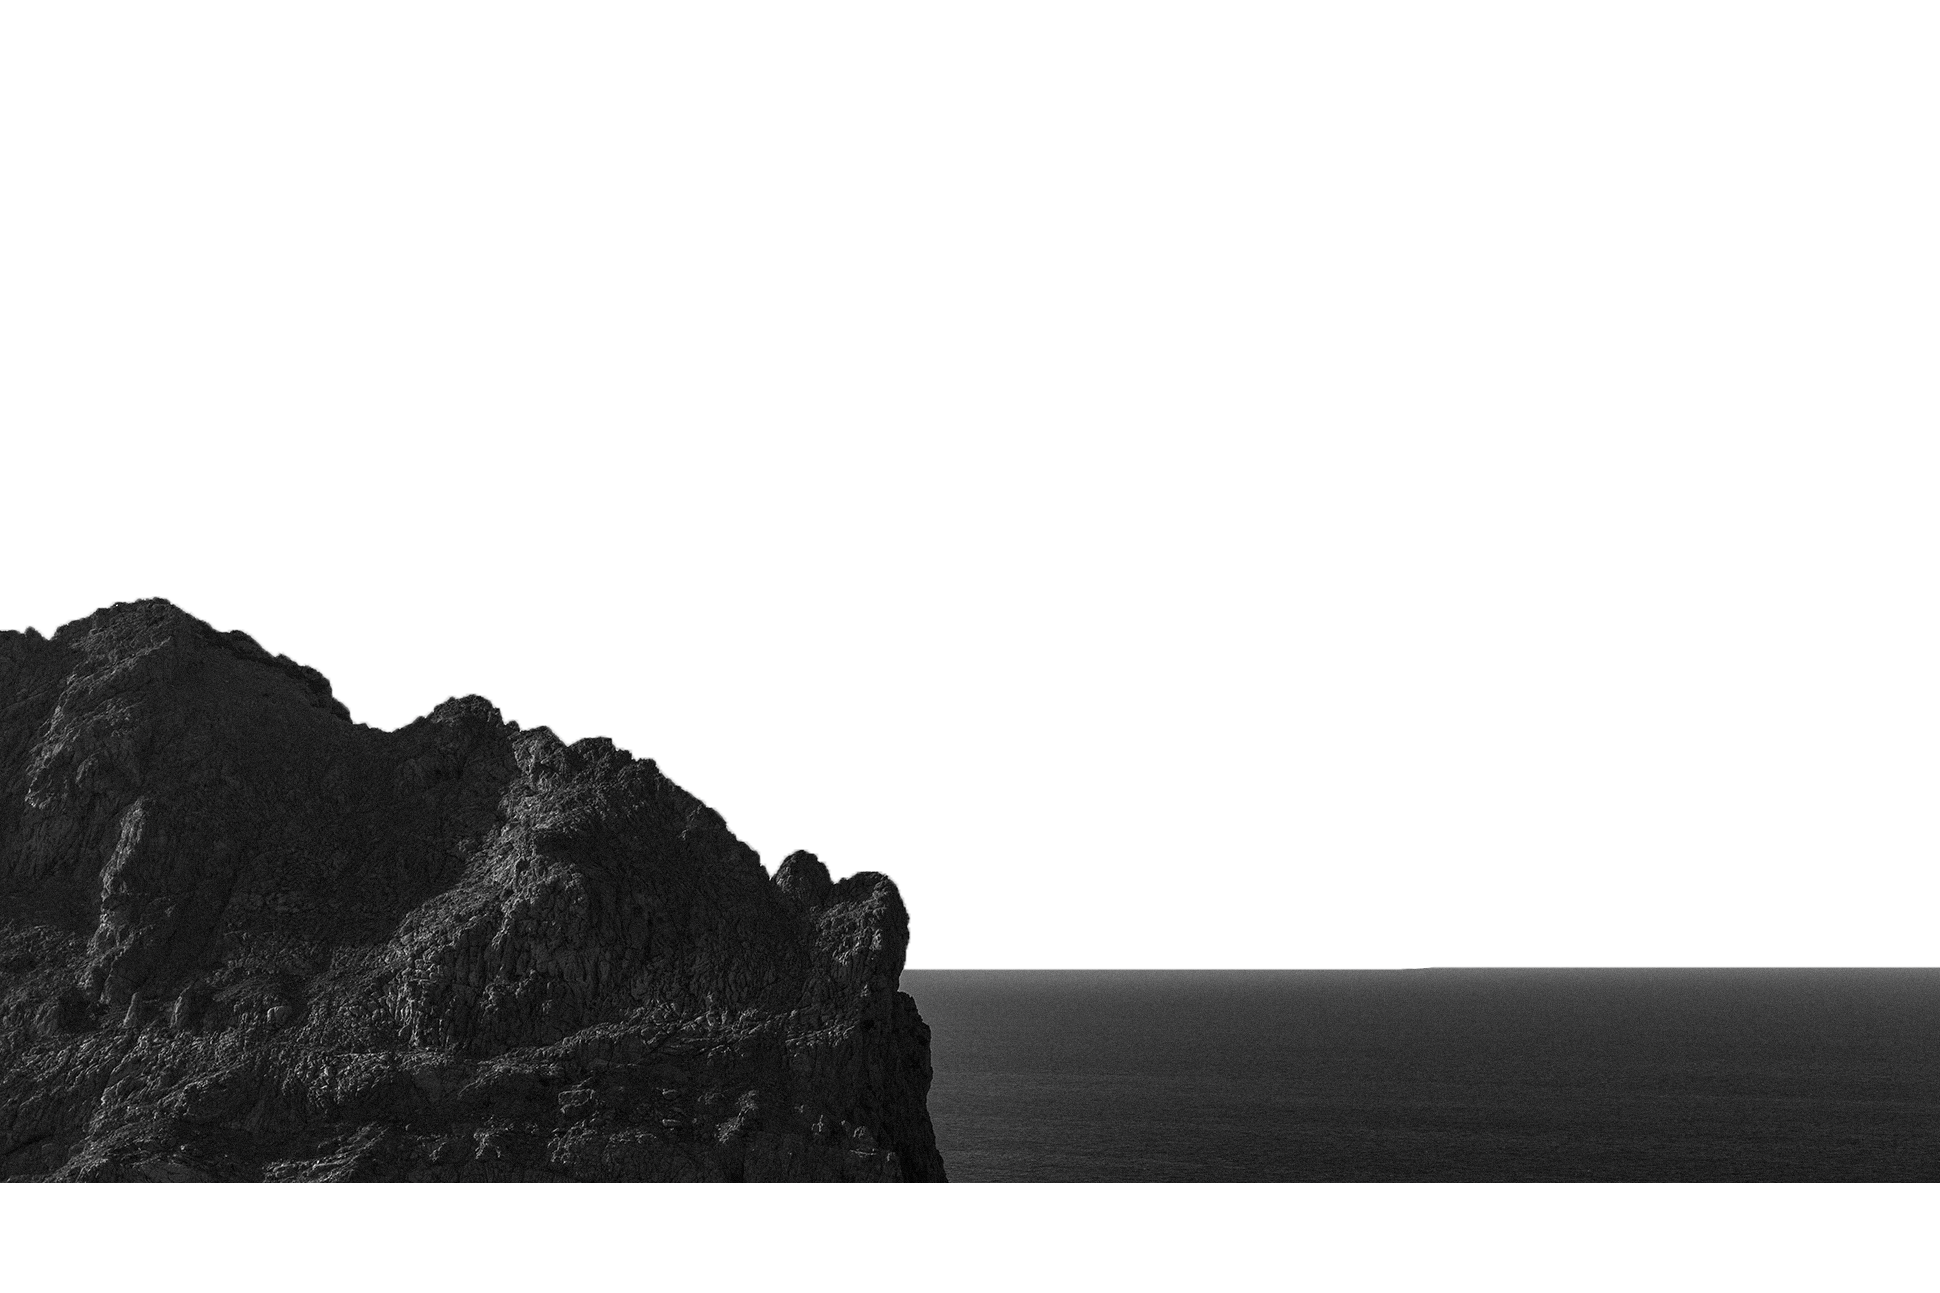
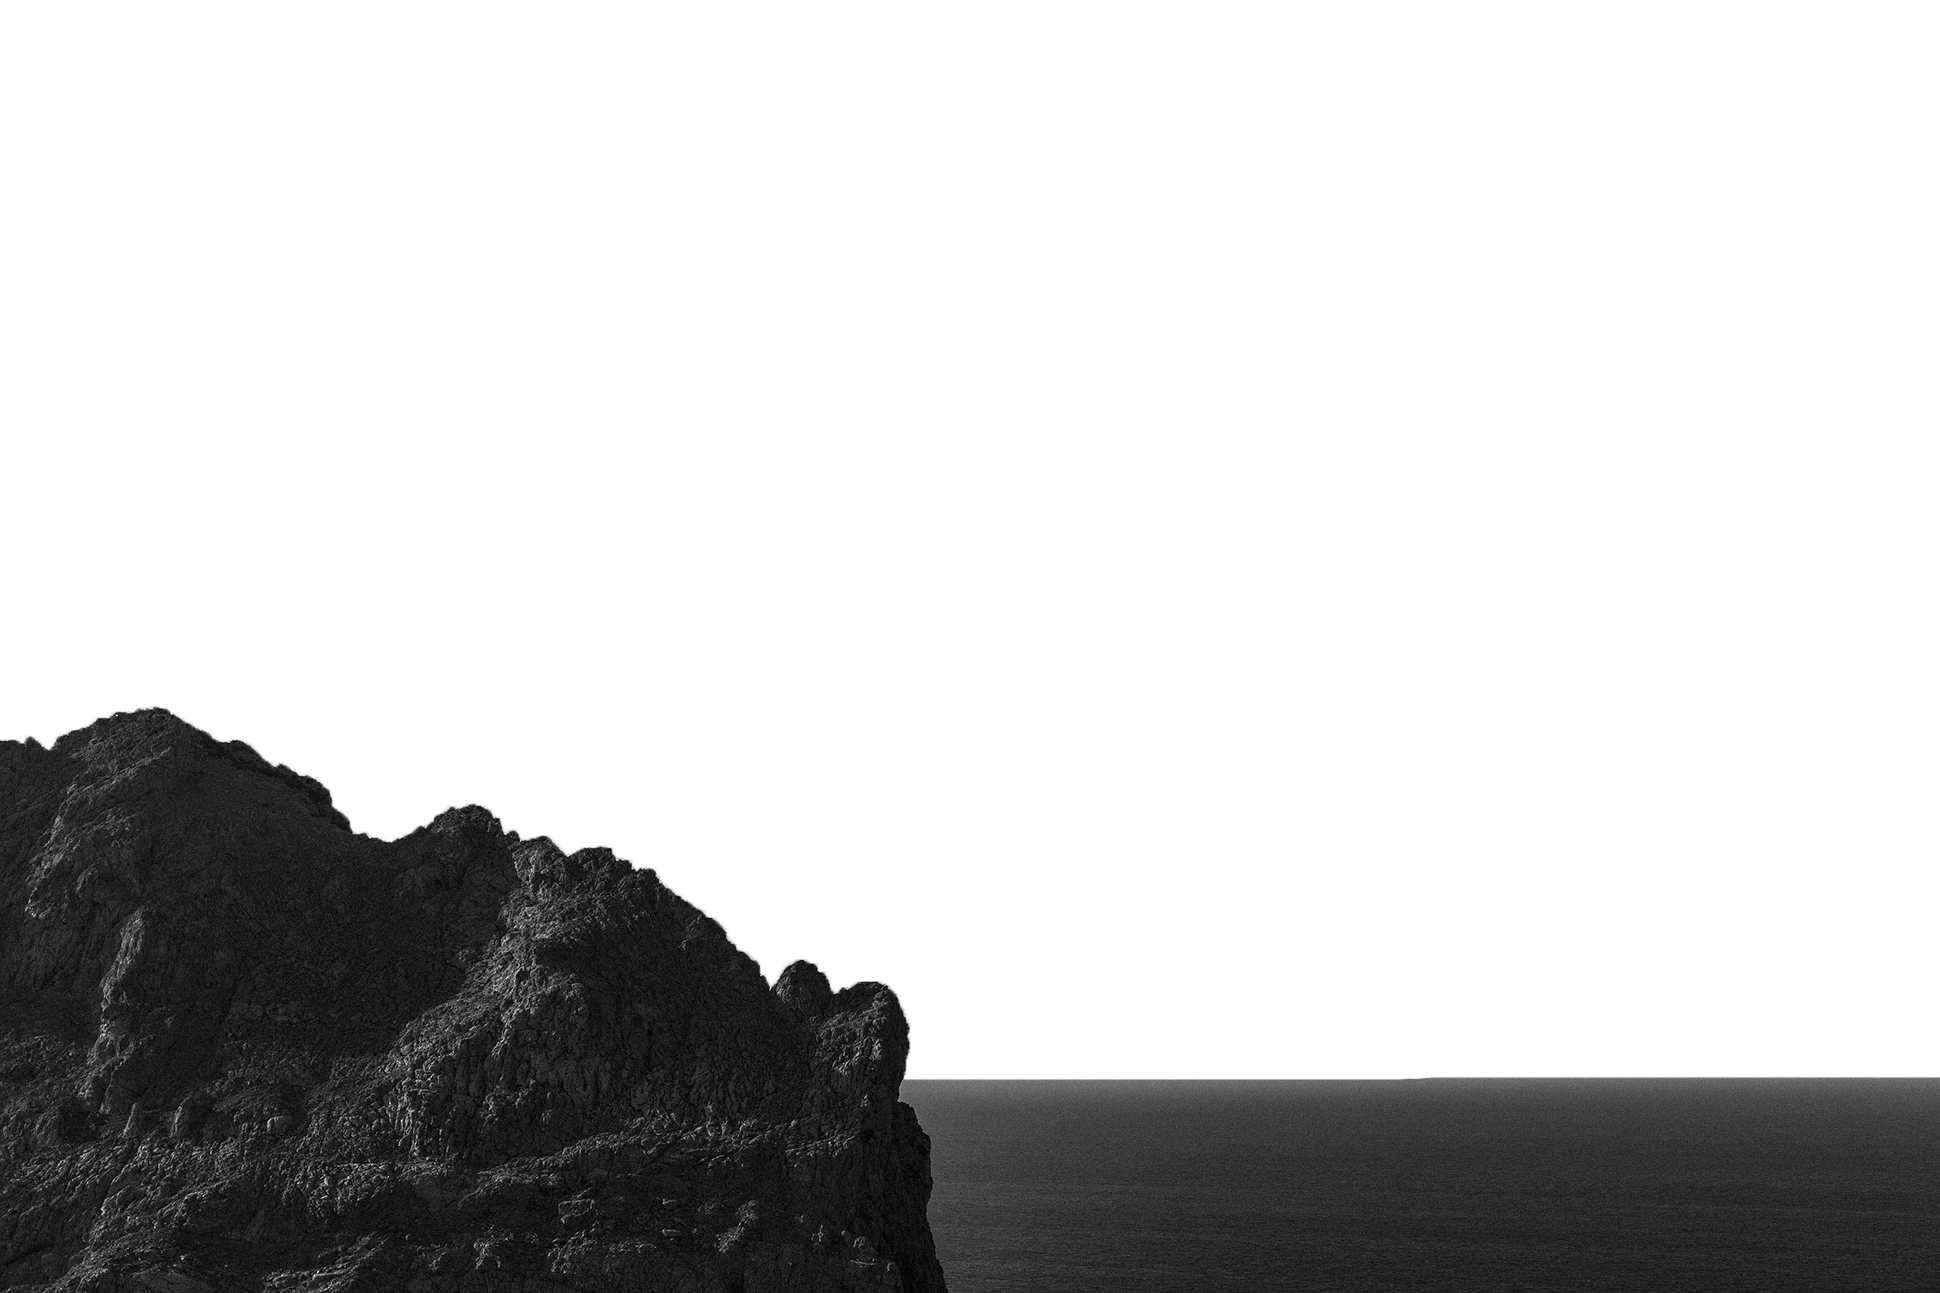
wip - sidenav js

Changed region(s): [[0.0, 0.464, 1.0, 1.0]]

diff --git a/app.js b/app.js
@@ -1,9 +1,17 @@
 
+// const openNav = document.querySelector('.menu-icon');
+// openNav.addEventListener('hover', () => {
+//     document.getElementById("mySidenav").style.height = "10%";
+// }
+
+// })
+/* Open the sidenav */
 function openNav() {
     document.getElementById("mySidenav").style.height = "10%";
 }
 
 /* Close/hide the sidenav */
+// const closeNav = document.querySelector('')
 function closeNav() {
     document.getElementById("mySidenav").style.height = "0";
 }
@@ -16,12 +24,12 @@ let mountains = document.getElementById("mountains");
 let text = document.getElementById("text");
 
 window.addEventListener('scroll', function () {
-    var value = window.scrollY;
+    let value = window.scrollY;
 
     bg.style.top = value * 0.5 + 'px';
     earth.style.left = -value * 0.5 + 'px';
     earth.style.top = -value * 0.15 + 'px';
-    mountains.style.top = value * 0.15 + 'px';
-    text.style.top = value * 1 + 'px';
+    mountains.style.top = value * 0.40 + 'px';
+    text.style.top = value * 1.1 + 'px';
 
 })

diff --git a/style.css b/style.css
@@ -137,18 +137,18 @@ section {
   align-items: center;
 }
 
-/* bottom photo linear-transparent
+/* bottom photo linear-transparent */
 
-section:before{
+/* section:before{
   content:  '';
   position: absolute;
   bottom: 0;
   width: 100vw;
-  height: 100px;
+  height: 60px;
   background: linear-gradient(to top, white, transparent);
   z-index: 10000;
-}
-*/
+} */
+
 
 section img:nth-of-type(2) {
   opacity: 15%;
@@ -168,7 +168,7 @@ section img {
   position: absolute;
   top: 0;
   left: 0;
-  width: 100vw;
+  width: 100%;
   height: 100%;
   object-fit: cover;
   pointer-events: none;
